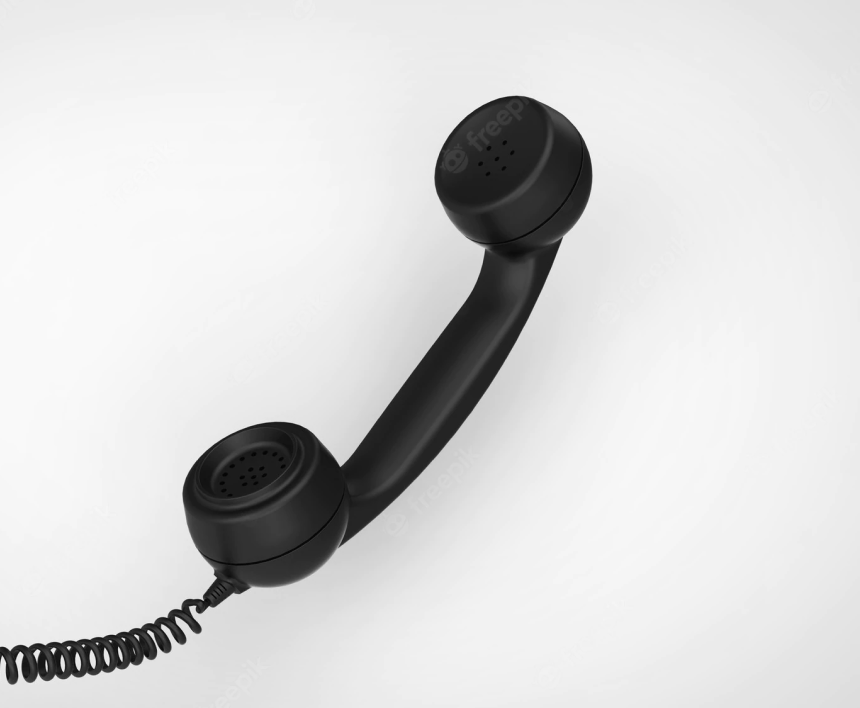
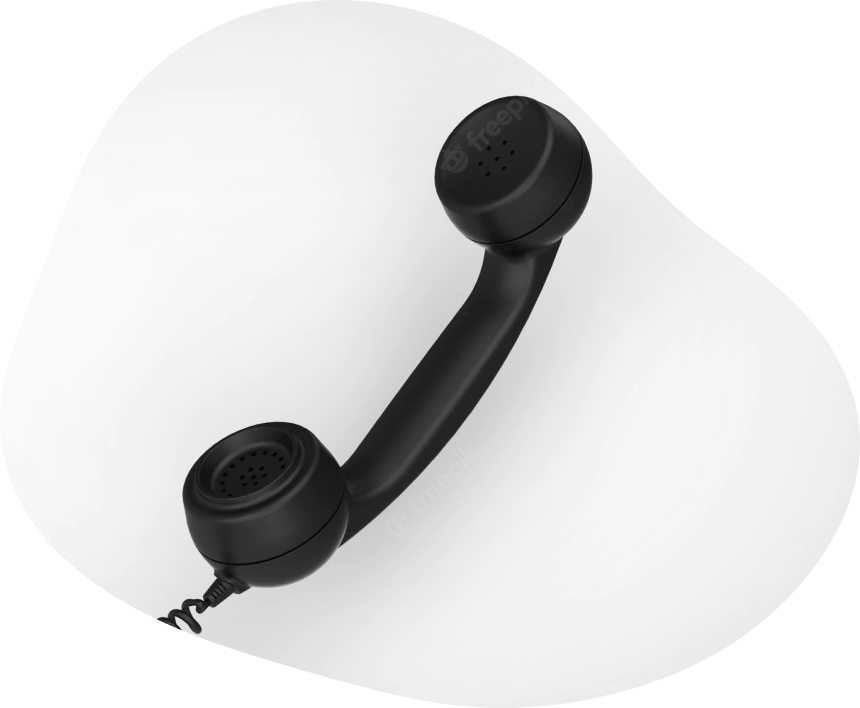
contacts edit img

Changed region(s): [[0.0, 0.8701, 0.393, 1.0], [0.786, 0.8079, 1.0, 1.0], [0.8465, 0.0, 1.0, 0.1554]]

diff --git a/src/pages/Contacts/Contacts.sass b/src/pages/Contacts/Contacts.sass
@@ -7,17 +7,19 @@
 .contacts__title
   @include heading-h1
   color: rgba(243, 66, 71, 1)
+  padding-top: 147px
 
 .contacts__img
-  max-height: 308px
+  padding-top: 136px
+  max-height: 708px
 
 .contacts__main
-  margin-top: 200px
+  margin-top: 88px
   min-width: 1028px
   box-shadow: 0px 20px 50px 0px rgba(0, 0, 0, 0.1)
   border-radius: 30px
   text-align: left
-  margin-bottom: 300px
+  margin-bottom: 128px
 
 .contacts__text-block
   padding-bottom: 100px
